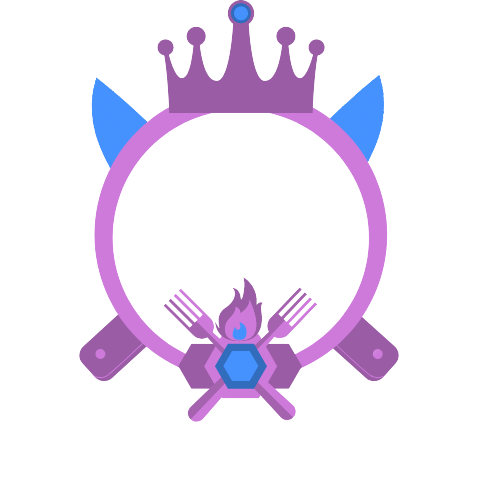
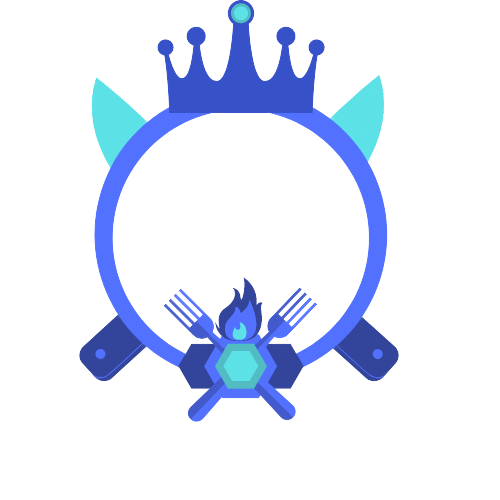
a

Changed region(s): [[0.15, 0.0, 0.81, 0.84]]

diff --git a/src/app/perfil/datos/datos.component.scss b/src/app/perfil/datos/datos.component.scss
@@ -25,7 +25,7 @@
   >.b_usuario{ 
     
     border-radius: 100%;
-    background-image: url("../../../assets/IMG/Niveles/lvl_1-removebg-preview.png");
+    background-image: url("../../../assets/IMG/Niveles/lvl_5-removebg-preview.png");
     background-size: cover;
     background-repeat: no-repeat;
     background-position: center;
